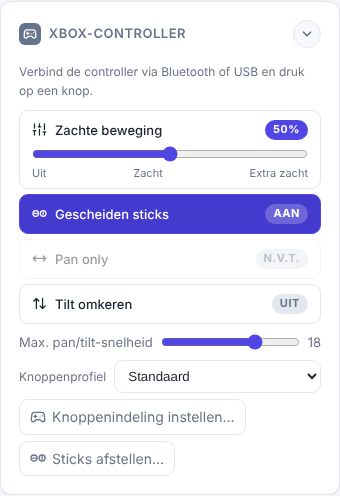
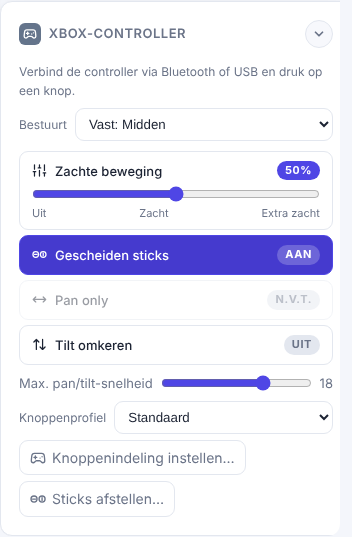
Xbox-controller: vaste camera instelbaar (Bestuurt)
In de Xbox-kaart kies je bij "Bestuurt" of de controller meewisselt met de
geselecteerde camera (standaard, zoals altijd) of vast op één camera blijft.
Vast: klikken op tabbladen, kolommen, tegels, sneltoetsen en Meewisselen
veranderen de controllercamera niet; presets, home, volgen en stoppen van de
controller gaan naar die camera, D-pad ←/→ wisselt alleen de controllercamera.
Label XBOX in kolomkop en tabblad. Per scherm onthouden.

Ook: wisselt de controllercamera terwijl de stick nog vastgehouden wordt, dan
stopt eerst de vorige camera.

Rondleiding, README, CLAUDE.md en screenshots bijgewerkt.

Claude-Session: https://claude.ai/code/session_01UTh5KaErnH4QWkhz9Fr63p

diff --git a/index.html b/index.html
@@ -486,6 +486,10 @@
   .colhead .osdtag, .tab .osdtag { background: var(--warn); color: var(--onbusy); font-size: 11px; font-weight: 700; border-radius: 4px;
     padding: 1px 6px; white-space: nowrap; flex-shrink: 0; align-self: center; }
   .tab .osdtag { margin-left: 6px; }
+  /* 🧑 vaste controllercamera (padCam): label XBOX in kolomkop en tabblad */
+  .colhead .padtag, .tab .padtag { background: var(--accent); color: var(--onaccent); font-size: 11px; font-weight: 700; border-radius: 4px; padding: 1px 6px; display: inline-flex; align-items: center; gap: 3px; }
+  .padtag .ic { width: 11px; height: 11px; }
+  .tab .padtag { margin-left: 6px; }
   #dlgOsd { width: min(520px, 94vw); }
   .osdtop { display: flex; gap: 10px; align-items: center; flex-wrap: wrap; }
   .osdtop select { width: auto !important; min-width: 160px; }
@@ -1170,6 +1174,7 @@
       <div id="padBody" class="foldbody">
       <p class="small" id="padInfo" style="margin:8px 0 0">Verbind de controller via Bluetooth of USB en druk op een knop.</p>
       <div class="small" id="padLive" style="margin-top:4px"></div>
+      <label class="small padprofcard" data-tipk="padCam">Bestuurt <select id="padCamSel" aria-label="Welke camera de Xbox-controller bestuurt"></select></label>
       <div class="padset">
         <div class="padtogs">
         <div class="padsoft" id="padSoftBox" data-tipk="padSoft">
@@ -1759,7 +1764,7 @@ async function loadConfig() {
   if (view === null && cfg.cameras.length > 1) view = ALL;
   if (view !== ALL && !camById(view)) view = cfg.cameras[0]?.id ?? null;
   if (!camById(ctrlCam)) ctrlCam = view !== ALL ? view : cfg.cameras[0]?.id ?? null;
-  render(); renderBackup(); renderPadProfiles(); renderPadMap(); renderLoad(); renderCap(); renderKeyHints(); trkRender();
+  render(); renderBackup(); renderPadProfiles(); renderPadCam(); renderPadMap(); renderLoad(); renderCap(); renderKeyHints(); trkRender();
   if ($("#dlgCal").open) calRender();
 }
 async function saveConfig() {
@@ -1784,7 +1789,7 @@ function renderTabs() {
   cfg.cameras.forEach((c, i) => {
     const b = document.createElement("button");
     b.className = "tab" + (c.id === view ? " active" : "");
-    b.innerHTML = `${camDot(c.id)}${esc(c.name)}<small>${i + 1}</small>${midiOnAir(c.id) ? '<span class="onair">IN BEELD</span>' : ""}${presetLocked(c.id) ? `<span class="locktag">${ic("lock")}SLOT</span>` : ""}${osdOpen[c.id] ? '<span class="osdtag">OSD</span>' : ""}`;
+    b.innerHTML = `${camDot(c.id)}${esc(c.name)}<small>${i + 1}</small>${midiOnAir(c.id) ? '<span class="onair">IN BEELD</span>' : ""}${presetLocked(c.id) ? `<span class="locktag">${ic("lock")}SLOT</span>` : ""}${osdOpen[c.id] ? '<span class="osdtag">OSD</span>' : ""}${padFixed() === c.id ? `<span class="padtag">${ic("gamepad")}XBOX</span>` : ""}`;
     b.onclick = () => setView(c.id);
     tabs.appendChild(b);
   });
@@ -1882,7 +1887,7 @@ function renderPresets() {
       const col = document.createElement("div"); col.className = "col" + (c.id === ctrlCam ? " sel" : "") + (midiOnAir(c.id) ? " onair" : "") + (presetLocked(c.id) ? " locked" : "");
       const ln = lastPreset[c.id], lst = ln ? presetState(c.id, ln) : "";
       col.innerHTML = `<div class="colhead" title="Klik om deze camera met de pijltjes of de controller te bedienen">
-        ${camDot(c.id)}<b>${esc(c.name)}</b>${camst[c.id] && !camst[c.id].ok ? '<span class="offline">niet bereikbaar</span>' : ""}${camHotkey(c, i) ? `<span class="key" title="Sneltoets om deze camera te kiezen (instelbaar bij Sneltoetsen in het menu)">${esc(keyLabel(camHotkey(c, i)))}</span>` : ""}${c.id === ctrlCam ? '<span class="ctl" title="Deze camera wordt bediend">●</span>' : ""}${midiOnAir(c.id) ? '<span class="onair" title="Deze camera is op de videomixer gekozen (rode knop)">IN BEELD</span>' : ""}${osdOpen[c.id] ? '<span class="osdtag" title="Het OSD-menu van deze camera staat open (ook in de livestream)">OSD-MENU</span>' : ""}
+        ${camDot(c.id)}<b>${esc(c.name)}</b>${camst[c.id] && !camst[c.id].ok ? '<span class="offline">niet bereikbaar</span>' : ""}${camHotkey(c, i) ? `<span class="key" title="Sneltoets om deze camera te kiezen (instelbaar bij Sneltoetsen in het menu)">${esc(keyLabel(camHotkey(c, i)))}</span>` : ""}${c.id === ctrlCam ? '<span class="ctl" title="Deze camera wordt bediend">●</span>' : ""}${midiOnAir(c.id) ? '<span class="onair" title="Deze camera is op de videomixer gekozen (rode knop)">IN BEELD</span>' : ""}${osdOpen[c.id] ? '<span class="osdtag" title="Het OSD-menu van deze camera staat open (ook in de livestream)">OSD-MENU</span>' : ""}${padFixed() === c.id ? `<span class="padtag" title="De Xbox-controller bestuurt vast deze camera (instelbaar in de Xbox-kaart: Bestuurt)">${ic("gamepad")}XBOX</span>` : ""}
         ${presetLocked(c.id) ? `<span class="locktag" title="In beeld en op slot: presets en home zijn geblokkeerd, bewegen met de controller kan wel">${ic("lock")}SLOT</span>` : ""}
         <span class="livename${lst ? " " + lst : ""}">${!ln ? "" : lst === "adj" ? `Aangepast (was ${esc(c.presets[ln] || "preset " + ln)})` : (lst === "live" ? "LIVE: " : "Geselecteerd: ") + esc(c.presets[ln] || "preset " + ln)}</span>${cfg.midi?.enabled ? `<button class="lockbtn${lockSet(c.id) ? " on" : ""}${midiMapped(c.id) ? "" : " na"}" title="${!midiMapped(c.id) ? "Slot niet mogelijk: deze camera hangt aan geen ingang van de videomixer (koppelen bij Menu → Instellingen → Videomixer)" : lockSet(c.id) ? "Slot aan: zolang deze camera in beeld is (videomixer) kun je geen preset of home kiezen; bewegen met de controller kan wel. Klik = slot uit" : "Slot uit. Klik = presets blokkeren zolang deze camera in beeld is (videomixer); bewegen met de controller blijft mogelijk"}" aria-label="Slot bij in beeld">${ic(lockSet(c.id) ? "lock" : "unlock")}</button>` : ""}${trackBtnHtml(c.id)}</div>`;
       col.querySelector(".colhead").onclick = (e) => {
@@ -1932,9 +1937,9 @@ function renderSide() {
 }
 
 /* ================= preset acties ================= */
-async function presetClick(camId, n, el) {
+async function presetClick(camId, n, el, keepSel) {
   if (viewOnly()) return pinPrompt();
-  ctrlCam = camId;
+  if (!keepSel) ctrlCam = camId;   // keepSel: Xbox met vaste camera verandert de selectie op het scherm niet
   if (storeMode) {
     const c = camById(camId);
     const label = c.presets[n] ? `“${c.presets[n]}” (${n})` : `preset ${n}`;
@@ -2893,7 +2898,28 @@ const pad = {
   idx: null, prev: [], last: { move: null, zoom: null, focus: null }, lastSend: 0, fine: false,
   invY: store.get("padInvY") === "1", panOnly: store.get("padPanOnly") === "1", soft: padSoftInit(), max: +(store.get("padMax") || 18),
   split: store.get("padSplit") === "1",   // 🧑 Gescheiden sticks: linker stick pan, rechter stick tilt (standaard uit)
+  cam: store.get("padCam") || "",          // 🧑 vaste camera voor de controller ("" = volgt de geselecteerde camera), per scherm
+  sentCam: null,                           // camera waar de laatste beweging/zoom/focus heen ging (stoppen gaat daarheen)
 };
+/* 🧑 Welke camera de Xbox-controller bestuurt (18 nov 2026): "Volgt selectie" (standaard, zoals altijd = ctrlCam) of een vaste
+   camera. Vast = klikken op tabbladen/kolommen/tegels, sneltoetsen en Meewisselen veranderen de controllercamera niet;
+   D-pad ←/→ (cam_prev/cam_next/cam:N) wisselt dan alleen de controllercamera, niet de selectie op het scherm. */
+function padFixed() { try { return pad.cam && camById(pad.cam) ? pad.cam : ""; } catch { return ""; } }   // try: render() kan vóór "pad" lopen
+function padCamId() { return padFixed() || ctrlCam; }
+function renderPadCam() {
+  const sel = $("#padCamSel"); if (!sel) return;
+  const cur = padFixed();
+  sel.innerHTML = `<option value="">Geselecteerde camera (wisselt mee)</option>` +
+    (cfg.cameras || []).map(c => `<option value="${esc(c.id)}"${c.id === cur ? " selected" : ""}>Vast: ${esc(c.name)}</option>`).join("");
+  sel.value = cur;
+}
+function setPadCam(id, say) {
+  if (id && !camById(id)) id = "";
+  if (id !== padFixed()) padStopAll();
+  pad.cam = id; store.set("padCam", id);
+  renderPadCam(); renderPresets(); renderTabs();
+  if (say) toast(id ? `Controller bestuurt vast: ${camById(id).name}` : "Controller volgt de geselecteerde camera", true);
+}
 const B = { A: 0, B: 1, X: 2, Y: 3, LB: 4, RB: 5, LT: 6, RT: 7, VIEW: 8, MENU: 9, L3: 10, R3: 11, UP: 12, DOWN: 13, LEFT: 14, RIGHT: 15 };
 // Knopindeling staat in cameras.json (cfg.pad_map), zodat alle schermen dezelfde indeling hebben.
 // Sticks en triggers hebben een vaste functie: linker stick pan/tilt, RT/LT zoom, rechter stick ↑↓ focus (Gescheiden sticks: rechts = tilt).
@@ -3188,6 +3214,7 @@ function setSplit(on, say) {
 }
 padTogsState();
 $("#padPanOnly").onclick = () => setPanOnly(!pad.panOnly);
+$("#padCamSel").onchange = () => setPadCam($("#padCamSel").value, true);
 $("#padSplit").onclick = () => setSplit(!pad.split);
 $("#padMax").oninput = () => { pad.max = +$("#padMax").value; $("#padMaxV").textContent = pad.max; store.set("padMax", pad.max); };
 function setMenu(open) {
@@ -3332,41 +3359,44 @@ function calAxis(raw, side, focus, soft = true) {
 }
 
 function padStopAll() {
-  if (pad.last.move) cmd("stop");
-  if (pad.last.zoom) cmd("zoom", { dir: "stop" });
-  if (pad.last.focus) cmd("focus", { dir: "stop" });
+  const c = pad.sentCam || padCamId();   // stoppen op de camera die de controller liet bewegen
+  if (pad.last.move) cmd("stop", {}, c);
+  if (pad.last.zoom) cmd("zoom", { dir: "stop" }, c);
+  if (pad.last.focus) cmd("focus", { dir: "stop" }, c);
   pad.last = { move: null, zoom: null, focus: null };
 }
 function selectCamByPad(c) {
   if (!c) return;
   padStopAll();
+  if (padFixed()) return setPadCam(c.id, true);   // vaste camera: alleen de controllercamera wisselen
   selectCam(c, "pad");
 }
 function selectByPad(delta) {
   if (!cfg.cameras.length) return;
-  const i = Math.max(0, cfg.cameras.findIndex(c => c.id === ctrlCam));
+  const i = Math.max(0, cfg.cameras.findIndex(c => c.id === padCamId()));
   selectCamByPad(cfg.cameras[(i + delta + cfg.cameras.length) % cfg.cameras.length]);
 }
 function padAction(action, gp, mods) {
   const [kind, arg] = action.split(":");
+  const pc = padCamId();
   switch (kind) {
     case "preset": {
       const n = +arg + (mods.shift ? mods.shiftBy : 0);
       padStopAll();
-      if (mods.store) { const cid = ctrlCam; cmd("preset_set", { n }).then(r => { if (r?.ok) { rumble(gp, 350, 1); storedToast(`Preset ${n} opgeslagen`, r, cid, n); } }); }
-      else { presetClick(ctrlCam, n); rumble(gp, 60, 0.3); }
+      if (mods.store) { cmd("preset_set", { n }, pc).then(r => { if (r?.ok) { rumble(gp, 350, 1); storedToast(`Preset ${n} opgeslagen`, r, pc, n); } }); }
+      else { presetClick(pc, n, null, !!padFixed()); rumble(gp, 60, 0.3); }
       break;
     }
     case "cam_prev": return selectByPad(-1);
     case "cam_next": return selectByPad(+1);
     case "cam": return selectCamByPad(cfg.cameras[+arg - 1]);
-    case "home": padStopAll(); cmd("home"); break;
-    case "track": toggleTrack(ctrlCam); break;
-    case "af": cmd("onepush_af"); setAF(true); break;
+    case "home": padStopAll(); cmd("home", {}, pc); break;
+    case "track": toggleTrack(pc); break;
+    case "af": cmd("onepush_af", {}, pc); if (pc === ctrlCam) setAF(true); break;
     case "fine": pad.fine = !pad.fine; toast(pad.fine ? "Fijn-modus aan" : "Fijn-modus uit", true); rumble(gp, 80, 0.4); break;
     case "pan_only": setPanOnly(!pad.panOnly, true); rumble(gp, 80, 0.4); break;
     case "split": setSplit(!pad.split, true); rumble(gp, 80, 0.4); break;
-    case "stopall": { const hc = handHalt(false); if (hc && hc !== ctrlCam) cmd("stop", {}, hc); } padStopAll(); cmd("stop"); cmd("zoom", { dir: "stop" }); cmd("focus", { dir: "stop" }); break;
+    case "stopall": { const hc = handHalt(false); if (hc && hc !== pc) cmd("stop", {}, hc); } padStopAll(); cmd("stop", {}, pc); cmd("zoom", { dir: "stop" }, pc); cmd("focus", { dir: "stop" }, pc); break;
   }
 }
 
@@ -3380,7 +3410,10 @@ function padLoop() {
   const gp = navigator.getGamepads()[pad.idx];
   if (!gp) return;
   if ($("#dlgCal").open) calLive(gp);      // live stickstand, ook zonder camera
-  if (!ctrlCam) return;
+  const pc = padCamId();                   // vaste controllercamera, anders de geselecteerde
+  if (!pc) return;
+  // andere controllercamera (selectie gewisseld) terwijl er nog iets liep: eerst de vorige stoppen
+  if (pad.sentCam && pad.sentCam !== pc && (pad.last.move || pad.last.zoom || pad.last.focus)) padStopAll();
   const btn = (i) => !!gp.buttons[i]?.pressed;
   const val = (i) => gp.buttons[i]?.value || 0;
   const down = (i) => btn(i) && !pad.prev[i];
@@ -3441,21 +3474,21 @@ function padLoop() {
     const key = (o) => o ? JSON.stringify(o) : null;
     if (now - pad.lastSend > 80) {
       if (key(move) !== key(pad.last.move)) {
-        if (move) { cmd("move", move); } else cmd("stop");
-        pad.last.move = move; pad.lastSend = now;
+        if (move) { cmd("move", move, pc); } else cmd("stop", {}, pc);
+        pad.last.move = move; pad.lastSend = now; pad.sentCam = pc;
       }
       if (key(zoom) !== key(pad.last.zoom)) {
-        if (zoom) { cmd("zoom", zoom); } else zoomStop();
-        pad.last.zoom = zoom; pad.lastSend = now;
+        if (zoom) { cmd("zoom", zoom, pc); } else zoomStop(pc);
+        pad.last.zoom = zoom; pad.lastSend = now; pad.sentCam = pc;
       }
       if (key(focus) !== key(pad.last.focus)) {
-        if (focus) { setAF(false); cmd("focus", focus); } else cmd("focus", { dir: "stop" });
-        pad.last.focus = focus; pad.lastSend = now;
+        if (focus) { if (pc === ctrlCam) setAF(false); cmd("focus", focus, pc); } else cmd("focus", { dir: "stop" }, pc);
+        pad.last.focus = focus; pad.lastSend = now; pad.sentCam = pc;
       }
     }
     const active = !!(move || zoom || focus);
     $("#padBadge").classList.toggle("act", active);
-    const live = `${camById(ctrlCam)?.name || ""} · ${move ? `${move.dir} ${move.pan}/${move.tilt}` : "stil"}${zoom ? ` · zoom ${zoom.dir} ${zoom.speed}` : ""}${pad.fine ? " · fijn" : ""}`;
+    const live = `${padFixed() ? "Vast: " : ""}${camById(pc)?.name || ""} · ${move ? `${move.dir} ${move.pan}/${move.tilt}` : "stil"}${zoom ? ` · zoom ${zoom.dir} ${zoom.speed}` : ""}${pad.fine ? " · fijn" : ""}`;
     if ($("#padLive").textContent !== live) $("#padLive").textContent = live;
   }
   pad.prev = gp.buttons.map(b => b.pressed);
@@ -4972,6 +5005,7 @@ const TIPS = {
   spFocus: { t: "Focussnelheid", d: "Hoe snel <i>Focus ver</i> en <i>Focus dichtbij</i> (en de toetsen) scherpstellen (1–7). Geldt voor dit scherm." },
   padSoft: { t: "Zachte beweging", d: "Hoe geleidelijk de camera optrekt en hoe fijn de stick rond het midden reageert. <i>Uit</i> = direct op snelheid; 50% ≈ 1 s naar topsnelheid; 100% (extra zacht) ≈ 2 s. Stoppen gaat altijd direct. Geldt voor dit scherm." },
   padSplit: { t: "Gescheiden sticks", d: "Linker stick alleen links/rechts (pan), rechter stick alleen omhoog/omlaag (tilt). Focus zit dan niet meer op de rechter stick. <i>Pan only</i> is uitgeschakeld zolang dit aan staat; <i>Tilt omkeren</i> werkt op de rechter stick. Geldt voor dit scherm." },
+  padCam: { t: "Bestuurt", d: "Welke camera de Xbox-controller bestuurt. <i>Geselecteerde camera</i> = wisselt mee met de camera die je op het scherm kiest (zoals altijd). <i>Vast</i> = de controller blijft op die camera, ook als je op het scherm een andere camera, tegel of tabblad kiest; die krijgt het label XBOX. D-pad ←/→ wisselt dan alleen de controllercamera. Geldt voor dit scherm." },
   padPanOnly: { t: "Pan only", d: "De linker stick draait alleen links/rechts; omhoog/omlaag doet niets. Geldt voor alle camera's op dit scherm. Niet beschikbaar zolang <i>Gescheiden sticks</i> aan staat." },
   padInvY: { t: "Tilt omkeren", d: "Stick omhoog = camera omlaag (met <i>Gescheiden sticks</i>: de rechter stick). Niet beschikbaar zolang <i>Pan only</i> aan staat." },
   padMax: { t: "Max. pan/tilt-snelheid", d: "Snelheid als je de linker stick helemaal duwt (4–24). Geldt voor dit scherm." },
@@ -5055,6 +5089,7 @@ const TOUR_STEPS = [
   { target: ["#padSplit"], title: ic("sticks") + " Gescheiden sticks", text: () => `<p>Met <b>Gescheiden sticks</b> (indigo = aan) draait de <b>linker stick alleen links/rechts</b> en de <b>rechter stick alleen omhoog/omlaag</b>, zoals bij veel camera- en droneregelaars. Focus zit dan niet meer op de rechter stick.</p><p>Zolang dit aan staat is <i>Pan only</i> uitgeschakeld; <i>Tilt omkeren</i> werkt dan op de rechter stick. Standaard uit, geldt voor dit scherm. Ook op een controllerknop te zetten (<i>Gescheiden sticks aan/uit</i>).</p>` },
   { target: ["#padPanOnly"], title: ic("width") + " Pan only", text: () => `<p>Klik om <b>Pan only</b> aan of uit te zetten; aan = knop indigo met <b>AAN</b>. De linker stick draait de camera dan alleen <b>links en rechts</b>, voor <b>alle camera's</b>; per ongeluk omhoog of omlaag duwen verandert de hoogte niet. Geldt voor dit scherm. Je kunt het ook op een controllerknop zetten (<i>Pan only aan/uit</i> in de knoppenindeling).</p>` },
   { target: ["#btnCal"], title: ic("sticks") + " Sticks afstellen", text: () => `<p>Reageert een stick te snel, te traag of kruipt de camera als je hem loslaat? In <b>Sticks afstellen</b> stel je per stick de <b>dode zone</b>, het <b>maximum</b> en de <b>curve</b> in: <i>Standaard</i>, <i>Vertraagd</i> (fijner rond het midden), <i>Direct</i> of <i>Eigen</i> met twee punten die je versleept. Je ziet live waar de stick staat.</p><p>Eén afstelling voor alle schermen en knoppenprofielen. <i>Zachte beweging</i> werkt er nog bovenop.</p>` },
+  { target: ["#padCamSel"], parent: "label", title: ic("gamepad") + " Welke camera bestuurt de controller?", text: () => `<p>Bij <b>Bestuurt</b> kies je welke camera de Xbox-controller bedient. Standaard <b>wisselt hij mee</b> met de camera die je op het scherm selecteert.</p><p>Kies je <b>Vast: &lt;camera&gt;</b>, dan blijft de controller op die camera, ook als je op het scherm een andere camera, tegel of tabblad aanklikt. De kolom krijgt dan het label <b>XBOX</b>. Met D-pad ←/→ wissel je alleen de controllercamera. Geldt voor dit scherm.</p>` },
   { target: ["#padProfCard"], parent: "label", title: "Knoppenprofiel", text: () => `<p>Iedereen kan een eigen knoppenindeling hebben. Kies hier welk <b>profiel</b> deze controller op dit scherm gebruikt; elk scherm onthoudt zijn eigen keuze.</p>` },
   { target: ["#btnMap2"], title: "Knoppenindeling", text: () => `<p>Wil je andere knoppen? Hier geef je elke controllerknop een eigen functie. Je kunt ook een <b>nieuw profiel</b> maken (begint als kopie), en profielen hernoemen of verwijderen.</p>` },
   { target: ["#followWrap"], title: ic("link") + " Remote control: meewisselen", text: () => `<p>Staat de schakelaar aan (tegel indigo), dan wisselt dit scherm mee als op een ander scherm of met de controller een andere camera gekozen wordt.</p>

diff --git a/docs/tools/screenshots.py b/docs/tools/screenshots.py
@@ -71,8 +71,9 @@ with sync_playwright() as p:
     pg.evaluate("$('#ctrlCard details').open = true; const a = $('#spAccel'); a.value = 40; a.dispatchEvent(new Event('input')); zsShow(67)"); pg.wait_for_timeout(300)
     pg.locator("#ctrlCard").screenshot(path=f"{OUT}/snelheden.png")
     pg.evaluate("const a = $('#spAccel'); a.value = 0; a.dispatchEvent(new Event('input')); $('#ctrlCard details').open = false"); pg.wait_for_timeout(200)
-    # Xbox-kaart met Gescheiden sticks aan (Pan only dan n.v.t.)
-    pg.click("#padSplit"); pg.wait_for_timeout(300); pg.locator("#padCard").screenshot(path=f"{OUT}/xbox-kaart.png"); pg.click("#padSplit"); pg.wait_for_timeout(200)
+    # Xbox-kaart met Gescheiden sticks aan (Pan only dan n.v.t.) en vaste controllercamera (Bestuurt: Vast: Midden, label XBOX)
+    pg.select_option("#padCamSel", "midden"); pg.click("#padSplit"); pg.wait_for_timeout(300); pg.locator("#padCard").screenshot(path=f"{OUT}/xbox-kaart.png"); pg.click("#padSplit")
+    pg.locator("#presetArea .col:nth-child(2) .colhead").screenshot(path=f"{OUT}/xbox-vaste-camera.png"); pg.select_option("#padCamSel", ""); pg.wait_for_timeout(200)
     z = pg.locator('[data-tipk="zoom_in"]').bounding_box(); pg.mouse.move(z["x"] + z["width"] / 2, z["y"] + z["height"] / 2); pg.wait_for_timeout(2400)   # 🧑 tooltip na 2 s stilstaan
     sb = pg.locator("aside").bounding_box(); tb = pg.locator("#tip").bounding_box() or sb; x0 = min(sb["x"], tb["x"]) - 12   # uitsnede zijbalk + ballon
     pg.screenshot(path=f"{OUT}/tooltip.png", clip={"x": x0, "y": sb["y"], "width": sb["x"] + sb["width"] + 8 - x0, "height": min(560, 900 - sb["y"])}); pg.mouse.move(5, 5); pg.wait_for_timeout(200)

diff --git a/CLAUDE.md b/CLAUDE.md
@@ -125,7 +125,7 @@ Legenda: ✅ geverifieerd (getest of in officiële docs gevonden) · ⚠ aann
 
 ## 2b. Rondleiding en screenshots — ALTIJD bijwerken
 
-- 🧑 **Rondleiding in de app** (`TOUR_STEPS` in `index.html`, overlay `#tour`, 45 stappen incl. menu-submenu's Instellingen/Hulp, snelheden (zoom/acceleratie), kader en persoon kiezen, workspaces, gescheiden sticks, sticks afstellen, knoppenprofielen, videomixer, liederen, liederenvenster, zoeken/volgorde, camerastatus, foutbalk, oefenstand, OSD-menu, activiteitenlog, toegang, tabletweergave en updates): start vanzelf bij de eerste keer per apparaat (`localStorage.tourDone`), daarna alleen via **Menu → Hulp → 🎓 Rondleiding** (`#btnTour`). `?notour` in de URL slaat de automatische start over (voor screenshots/tests). Tijdens de rondleiding telt `anyDialog()` als waar, dus toetsen en de Xbox-controller bedienen geen camera's; klikken worden tegengehouden. Stap = `{target: [selectors…], small: [selectors…]?, menu: "main"?, parent?, title, text()}` (`small` = doel op schermen ≤ 700 px, als het gewone doel te hoog is voor de kaart; sinds 17 nov 2026 bij *Xbox-controller* = `#padBar`); eerste zichtbare selector wordt uitgelicht, anders staat de kaart in het midden. ✅ Getest (Playwright, 1440×900, 900×1000, 390×800): alle stappen, geen `/api/cmd` tijdens de tour, Esc/menu/herladen.
+- 🧑 **Rondleiding in de app** (`TOUR_STEPS` in `index.html`, overlay `#tour`, 46 stappen incl. menu-submenu's Instellingen/Hulp, snelheden (zoom/acceleratie), kader en persoon kiezen, workspaces, gescheiden sticks, sticks afstellen, knoppenprofielen, videomixer, liederen, liederenvenster, zoeken/volgorde, camerastatus, foutbalk, oefenstand, OSD-menu, activiteitenlog, toegang, tabletweergave en updates): start vanzelf bij de eerste keer per apparaat (`localStorage.tourDone`), daarna alleen via **Menu → Hulp → 🎓 Rondleiding** (`#btnTour`). `?notour` in de URL slaat de automatische start over (voor screenshots/tests). Tijdens de rondleiding telt `anyDialog()` als waar, dus toetsen en de Xbox-controller bedienen geen camera's; klikken worden tegengehouden. Stap = `{target: [selectors…], small: [selectors…]?, menu: "main"?, parent?, title, text()}` (`small` = doel op schermen ≤ 700 px, als het gewone doel te hoog is voor de kaart; sinds 17 nov 2026 bij *Xbox-controller* = `#padBar`); eerste zichtbare selector wordt uitgelicht, anders staat de kaart in het midden. ✅ Getest (Playwright, 1440×900, 900×1000, 390×800): alle stappen, geen `/api/cmd` tijdens de tour, Esc/menu/herladen.
 - 🧑 **Regel voor elke wijziging:** voeg je een functie toe, verander je hoe iets werkt of haal je iets weg, werk dan **in dezelfde commit** bij:
   1. de **rondleiding** (`TOUR_STEPS`): elke functie moet er een stap voor hebben, verwijderde functies eruit;
   2. de **screenshots** in `docs/screenshots/` (opnieuw maken met `docs/tools/`, zie `docs/tools/README.md`; nieuwe dialogen/schermen ook toevoegen aan `docs/tools/screenshots.py`);
@@ -192,6 +192,7 @@ Legenda: ✅ geverifieerd (getest of in officiële docs gevonden) · ⚠ aann
 - Zachte beweging, tilt omkeren en max. snelheid blijven per apparaat (localStorage).
 - 🧑 **Pan only en Tilt omkeren zijn schakelknoppen** (op verzoek, 15 nov 2026; geen vinkjes meer; Zachte beweging is sinds 17 nov 2026 een schuif, zie hieronder): `button.padtog` met `.pstate` AAN/UIT, `.on` = indigo, `aria-pressed`; `padTog(id, on)` zet de weergave. 🧑 Zelfde maat als de camerabediening (`.btn.sm`: 40 px, 13 px, gewicht 500, achtergrond `--panel`, rij-afstand 5 px in `.padtogs`). Tilt omkeren is `disabled` (half doorzichtig) zolang Pan only aan staat.
 - 🧑 **Pan only** (op verzoek, 15 nov 2026: "pan-only voor alle camera's in het Xbox-venster"; 🧑 heet **Pan only** en is een **schakelknop die toont of hij actief is**, geen vinkje): `button#padPanOnly.panonly` in de Xbox-kaart (`.on` = indigo, label `.pstate` AAN/UIT, `aria-pressed`), `pad.panOnly` / `store padPanOnly` (per scherm, zoals de andere Xbox-opties; geldt voor alle camera's). In `padLoop` wordt de stick-y dan 0, dus alleen `left`/`right`. *Tilt omkeren* is dan uitgeschakeld. Knopactie `pan_only` (`setPanOnly(!…, true)`, toast + trillen). Toetsenbord-pijltjes blijven pan én tilt. ✅ Getest met nagebootste gamepad.
+- 🧑 **Vaste controllercamera** (op verzoek, 18 nov 2026: "de selectie van welke camera je met Xbox bestuurt niet verandert, instelbaar in de Xbox-controllerinstellingen"): keuze `select#padCamSel` *Bestuurt* bovenaan de Xbox-kaart (`label.padprofcard`, tooltip `TIPS.padCam`): *Geselecteerde camera (wisselt mee)* (standaard, `""` = zoals altijd `ctrlCam`) of *Vast: <naam>* per camera. Per scherm `store padCam` (`pad.cam`, dus ook per workspace); onbekend camera-id → terug op meewisselen (`padFixed()`). `padCamId()` = vaste camera of `ctrlCam`; **alles van de controller gebruikt die**: `padLoop` (move/zoom/focus, `zoomStop(pc)`, `setAF` alleen als het de bediende camera is), `padAction` (presets via `presetClick(pc, n, null, keepSel)` → `ctrlCam` blijft gelijk, opslaan, home, track, af, stopall), `selectByPad`. Vast + `cam_prev`/`cam_next`/`cam:N` → `setPadCam` (alleen de controllercamera, niet `selectCam`). `pad.sentCam` = camera van de laatste controller-beweging; `padStopAll` stopt daar, en `padLoop` stopt eerst de vorige camera als de controllercamera wisselt terwijl er nog iets liep (ook bij meewisselen: eerder liep een stickbeweging dan door op de vorige camera tot loslaten). Label **XBOX** (`.padtag`, `--accent`, icoon gamepad) in kolomkop en tabblad van de vaste camera. Rondleidingstap *Welke camera bestuurt de controller?*. Screenshots `xbox-kaart.png` (vast: Midden) en `xbox-vaste-camera.png`. ✅ Getest (Playwright, nagebootste gamepad): standaard volgt de klik; vast op Links → stick en A naar Links terwijl de selectie Midden is (`ctrlCam` blijft Midden); D-pad → wisselt alleen naar Midden; stick vasthouden + op een andere kolom klikken → beweging blijft op de vaste camera; blijft na herladen; terug naar meewisselen haalt het label weg. Rondleiding 46 stappen zonder meldingen op 1440/900/390. ⚠ Niet met een echte controller.
 - 🧑 **Gescheiden sticks** (spec 5.1, goedgekeurd 17 nov 2026): schakelknop `button#padSplit.padtog` (icoon `i-sticks`, nieuw in de sprite, leisteen in iconstijl D) **boven Pan only**, 🧑 **standaard uit**, per scherm `store padSplit` (`pad.split`). Aan: `padLoop` neemt x van de linker stick (`axes[0]`) en y van de rechter stick (`axes[3]`, met *Tilt omkeren*); de rechter stick doet dan geen focus. 🧑 Zolang hij aan staat is *Pan only* **uitgeschakeld** (`disabled`, 🧑 label `.pstate` *n.v.t.* i.p.v. AAN/UIT; de bewaarde stand blijft maar telt niet (`padPanOnlyOn()`) en komt terug als Gescheiden sticks uit gaat) en weigert de knopactie `pan_only` met toast *Pan only is niet beschikbaar met Gescheiden sticks*; *Tilt omkeren* blijft werken. `padTogsState()` zet alle drie. Knopactie `split` (*Gescheiden sticks aan/uit*). De vaste stick-regels in `#dlgMap` (`#padStickMap`, `padStickRows()`) volgen de stand (ook Pan only / Tilt omkeren). Rondleidingstap *Gescheiden sticks*. ✅ Getest (Playwright, nagebootste gamepad): standaard uit, links = alleen pan, rechts = alleen tilt (ook omgekeerd), diagonaal met beide sticks, geen focus, Pan only disabled + toast bij knopactie, uitlegregels in het venster. ⚠ Niet met een echte controller.
 - 🧑 **Sticks afstellen** (spec 5.4, goedgekeurd 17 nov 2026; 🧑 **algemeen, niet per knoppenprofiel**): `cfg.pad_cal = {left|right: {dz, max, curve, pts}}` in `cameras.json` (per workspace, mee in back-ups), gedeeld over alle schermen. Server: `norm_pad_cal` (dz 0–0,4, max 0,5–1, curve `standaard|vertraagd|direct|eigen`, `pts` = twee punten 0–1, x oplopend, y niet terug), `PAD_CAL_DEFAULT` (links dz 0,18, rechts 0,35, max 1, standaard); **alleen via `POST /api/pad/cal {cal: {left|right: {…}}}`** (per stick samenvoegen) of `{reset: true}` (sleutel weg), SSE `config`, log *Xbox: sticks afgesteld* / *standaard afgesteld* (`describe_request`). `POST /api/config` behoudt altijd de bestaande `pad_cal` (zoals `midi`); `GET /api/config` geeft hem altijd volledig plus `pad_cal_default` (wordt bij opslaan weggegooid). UI: knop `#btnCal` *Sticks afstellen…* naast `#btnMap2` (`.padbtns`; zit in de Xbox-kaart, dus niet in alleen-kijken), venster `#dlgCal`: tabs `.caltabs` *Linker/Rechter stick* (ook ←/→), regel `#calUse` (wat de stick nu doet: pan/tilt, Pan only, Gescheiden sticks, focus), links `#calLive` (cirkel, assen, dode zone als gestippeld vierkant `--warn` want de dode zone geldt per as, stip `--accent`, waarden eronder), rechts curveknoppen `.calmode` (actieve: indigo ring) en grafiek `#calGraph` (dode-zonevlak `--warnbg` + stippellijn `--warn`, lineaire stippellijn, curve `--accent`, dunne stippel-curve *met Zachte beweging* als die aan staat, live-stip `#cgLive`), bij *Eigen* twee punten `.cg-pt` (pointer events op de svg zelf zodat opnieuw tekenen het slepen niet breekt; toetsenbord ←→↑↓ ±2 %, Shift ±10 %; focus blijft na opnieuw tekenen), schuiven *Dode zone* `#calDzR` (0–40 %) en *Maximaal* `#calMaxR` (50–100 %), *Standaard terugzetten*, *Sluiten*. Opslaan 400 ms na een wijziging; `loadConfig` houdt een lokaal gewijzigde afstelling 1,5 s vast (`calKeep`) zodat het venster niet terugspringt. Zolang het open is bestuurt de controller niets (`anyDialog`), de live-stand werkt wel (`calLive` in `padLoop`, vóór de `ctrlCam`-controle). **Volgorde** in `calAxis(raw, side, focus)`: dode zone → curve (`calShape`) → zachte beweging (vorm: macht `softExp(s)/2`, alleen pan/tilt) → maximaal; daarna in `padLoop` × max. snelheid en het optrekken van Zachte beweging. Curves: standaard = v² (pan/tilt; met zachte beweging dus precies het oude v^softExp) en **lineair voor focus** (zoals altijd), vertraagd = v³, direct = v, eigen = rechte stukken door (0,0), de twee punten, (1,1). Gescheiden sticks: tilt gebruikt de afstelling van de rechter stick. 🧑 **Dode zone rechter stick** (keuze 17 nov 2026): standaard 35 % voor focus, maar met Gescheiden sticks aan (= tilt) standaard **18 %** zolang de rechter stick niet zelf is afgesteld. Daarom slaat de server alleen afgestelde sticks op (`pad_cal` = alleen `left`/`right` die via `/api/pad/cal` zijn gezet; reset = sleutel weg) en geeft `GET /api/config` `pad_cal_set {left, right}` mee (bij opslaan weggegooid); `padCal(side)` geeft dan de standaard met dz 18 % (`padCalSplitStd`), ook in `#dlgCal`. Wie de rechter stick in dat venster wijzigt, slaat de getoonde waarde op (dan geldt die ook zonder Gescheiden sticks). 🧑 **Venster open = controller stopt**: `padLoop` stuurt bij `anyDialog()` (elk venster of de rondleiding) één keer `padStopAll()` als er nog een beweging/zoom/focus van de controller liep, daarna niets; de live-stand in `#dlgCal` blijft werken (eerder draaide de camera door tot het venster dicht was, gevonden door nep-tester). Nieuwe rondleidingstap *Sticks afstellen*. ✅ Getest (Playwright, nagebootste gamepad, twee schermen): standaard = 0 afwijkingen t.o.v. de oude formules (soft 0/25/50/75/100, pan én focus, alle uitslagen), live-stip, curve kiezen → server en tweede scherm, punten slepen en met toetsen, dode zone 30 % → stick 0,25 doet niets, `/api/config` zonder `pad_cal` wist hem niet, standaard terugzetten haalt hem uit `cameras.json`, logregels. ⚠ Niet met een echte controller.
 - Commando's alleen bij verandering, maximaal ~12/s (80 ms).

diff --git a/README.md b/README.md
@@ -255,9 +255,13 @@ De controllerstatus staat in de Xbox-kaart in de zijbalk (groen *Verbonden*). He
 
 **Knoppenprofielen (per persoon):** in de Xbox-kaart kies je bij *Knoppenprofiel* welke knoppenindeling deze controller gebruikt. In *Knoppenindeling instellen…* maak je een nieuw profiel (begint als kopie van het huidige), hernoem of verwijder je het. Elk scherm onthoudt zelf welk profiel actief is; de profielen staan in de back-up.
 
+**Welke camera de controller bestuurt** kies je in de Xbox-kaart bij **Bestuurt**. Standaard staat daar *Geselecteerde camera (wisselt mee)*: de controller bedient de camera die je op het scherm kiest (tabblad, kolomkop, tegel, sneltoets of *Meewisselen*). Kies je **Vast: <camera>**, dan blijft de controller op die camera, ook als je op het scherm een andere camera kiest of een preset van een andere camera aanklikt. Die kolom en dat tabblad krijgen het label **XBOX**. De presetknoppen, home, volgen en *Alles stoppen* op de controller gaan dan ook naar die camera, en met D-pad ←/→ wissel je alleen de controllercamera (niet de selectie op het scherm). Elk scherm onthoudt zijn eigen keuze.
+
+<img src="docs/screenshots/xbox-vaste-camera.png" width="300" alt="Kolomkop met het label XBOX: de controller bestuurt vast deze camera">
+
 **Gescheiden sticks**, **Pan only** en **Tilt omkeren** zijn knoppen in de Xbox-kaart: klik om ze aan of uit te zetten; aan = indigo met *AAN*. **Zachte beweging** is een schuif van *Uit* tot *Extra zacht* (0–100%).
 
-<img src="docs/screenshots/xbox-kaart.png" width="300" alt="Xbox-kaart met Gescheiden sticks aan (Pan only n.v.t.)">
+<img src="docs/screenshots/xbox-kaart.png" width="300" alt="Xbox-kaart met Bestuurt: Vast: Midden en Gescheiden sticks aan (Pan only n.v.t.)">
 
 **Zachte beweging** (standaard 50%): de camera trekt geleidelijk op en de stick reageert fijner rond het midden. Op 50% duurt het ongeveer 1 seconde tot topsnelheid, op 100% (*Extra zacht*) ongeveer 2 seconden en is de stick rond het midden nog fijner; op *Uit* gaat de camera direct op volle snelheid. Daartussen werkt het traploos. Stoppen gaat altijd direct. Elk scherm onthoudt zijn eigen stand; wie eerder zachte beweging uit had staan, begint op *Uit*.
 
